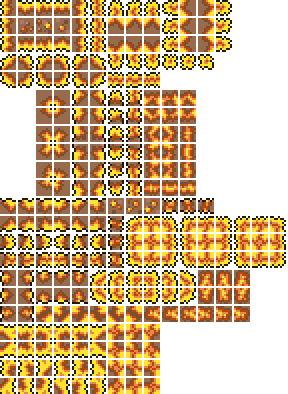
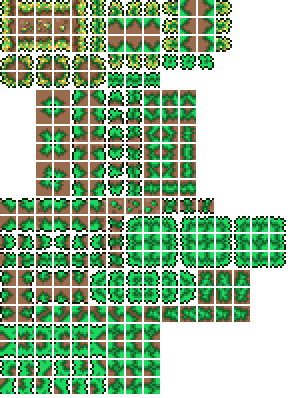
Fixed glowing, some changes to sprites

diff --git a/Helper/SJUtils.cs b/Helper/SJUtils.cs
@@ -1,4 +1,14 @@
-using Terraria;
+using Microsoft.Xna.Framework;
+using Microsoft.Xna.Framework.Graphics;
+using ScienceJam.Content.Tiles.SunGrass;
+using ScienceJam.Content.Walls;
+using System.Reflection;
+using System.Threading;
+using Terraria;
+using Terraria.DataStructures;
+using Terraria.GameContent.Drawing;
+using Terraria.ID;
+using Terraria.ModLoader;
 
 namespace ScienceJam.Helper
 {
@@ -9,5 +19,128 @@ namespace ScienceJam.Helper
             && (player.position.X + player.width) / 16f + Player.tileRangeX + player.inventory[player.selectedItem].tileBoost - 1f + player.blockRange >= x
             && player.position.Y / 16f - Player.tileRangeY - player.inventory[player.selectedItem].tileBoost - player.blockRange <= y
             && (player.position.Y + player.height) / 16f + Player.tileRangeY + player.inventory[player.selectedItem].tileBoost - 2f + player.blockRange >= y;
+
+        private static void TileGlowmaskList(TileDrawInfo drawData, int type, out Texture2D altGlowTexture, out Texture2D glowTexture, out Rectangle glowSourceRect, out Color glowColor)
+        {
+            glowTexture = null;
+            altGlowTexture = null;
+            glowSourceRect = Rectangle.Empty;
+            glowColor = Color.Transparent;
+            if (type == ModContent.TileType<SunGrassTile>())
+            {
+                altGlowTexture = SunGrassTile.glowTexture.Value;
+            }
+
+        }
+        public static void DrawGlowmask(int tileX, int tileY)
+        {
+            ThreadLocal<TileDrawInfo> _currentTileDrawInfo = (ThreadLocal<TileDrawInfo>)typeof(TileDrawing).GetField("_currentTileDrawInfo", BindingFlags.NonPublic | BindingFlags.Static | BindingFlags.Public | BindingFlags.Instance).GetValue(Main.instance.TilesRenderer);
+            TileDrawInfo drawData = _currentTileDrawInfo.Value;
+            Vector2 screenPosition = Main.Camera.UnscaledPosition;
+            Vector2 screenOffset = new((float)Main.offScreenRange, (float)Main.offScreenRange);
+            if (Main.drawToScreen)
+            {
+                screenOffset = Vector2.Zero;
+            }
+            drawData.tileCache = Main.tile[tileX, tileY];
+            drawData.typeCache = drawData.tileCache.TileType;
+            drawData.tileFrameX = drawData.tileCache.TileFrameX;
+            drawData.tileFrameY = drawData.tileCache.TileFrameY;
+            drawData.tileLight = Lighting.GetColor(tileX, tileY);
+            TileGlowmaskList(drawData, drawData.tileCache.TileType, out drawData.drawTexture, out drawData.glowTexture, out drawData.glowSourceRect, out drawData.glowColor);
+            bool flag = true;
+            flag &= TileDrawing.IsVisible(drawData.tileCache);
+
+            Rectangle rectangle = new(drawData.tileFrameX + drawData.addFrX, drawData.tileFrameY + drawData.addFrY, drawData.tileWidth, drawData.tileHeight - drawData.halfBrickHeight);
+            Vector2 vector = new Vector2((float)(tileX * 16 - (int)screenPosition.X) - ((float)drawData.tileWidth - 16f) / 2f, (float)(tileY * 16 - (int)screenPosition.Y + drawData.tileTop + drawData.halfBrickHeight)) + screenOffset;
+            if (!flag)
+            {
+                return;
+            }
+            drawData.colorTint = Color.White;
+            if (drawData.drawTexture != null)
+            {
+                Color color2 = Color.White;
+                if (drawData.tileCache.Slope == 0 && !drawData.tileCache.IsHalfBlock)
+                {
+                    Main.spriteBatch.Draw(drawData.drawTexture, vector, (Rectangle?)new Rectangle(drawData.tileFrameX + drawData.addFrX, drawData.tileFrameY + drawData.addFrY, drawData.tileWidth, drawData.tileHeight), color2, 0f, Vector2.Zero, 1f, (SpriteEffects)0, 0f);
+                }
+                else if (drawData.tileCache.IsHalfBlock)
+                {
+                    Main.spriteBatch.Draw(drawData.drawTexture, vector, (Rectangle?)rectangle, color2, 0f, Vector2.Zero, 1f, (SpriteEffects)0, 0f);
+                }
+                else if (TileID.Sets.Platforms[drawData.tileCache.TileType])
+                {
+                    Main.spriteBatch.Draw(drawData.drawTexture, vector, (Rectangle?)rectangle, color2, 0f, Vector2.Zero, 1f, drawData.tileSpriteEffect, 0f);
+                    if (drawData.tileCache.Slope == (SlopeType)1 && Main.tile[tileX + 1, tileY + 1].HasTile && Main.tileSolid[Main.tile[tileX + 1, tileY + 1].TileType] && Main.tile[tileX + 1, tileY + 1].Slope != (SlopeType)2 && !Main.tile[tileX + 1, tileY + 1].IsHalfBlock && (!Main.tile[tileX, tileY + 1].HasTile || (Main.tile[tileX, tileY + 1].BlockType != 0 && Main.tile[tileX, tileY + 1].BlockType != (BlockType)5) || (!TileID.Sets.BlocksStairs[Main.tile[tileX, tileY + 1].TileType] && !TileID.Sets.BlocksStairsAbove[Main.tile[tileX, tileY + 1].TileType])))
+                    {
+                        Rectangle value = new(198, (int)drawData.tileFrameY, 16, 16);
+                        if (TileID.Sets.Platforms[Main.tile[tileX + 1, tileY + 1].TileType] && Main.tile[tileX + 1, tileY + 1].Slope == 0)
+                        {
+                            value.X = 324;
+                        }
+                        Main.spriteBatch.Draw(drawData.drawTexture, vector + new Vector2(0f, 16f), (Rectangle?)value, color2, 0f, Vector2.Zero, 1f, drawData.tileSpriteEffect, 0f);
+                    }
+                    else if (drawData.tileCache.Slope == (SlopeType)2 && Main.tile[tileX - 1, tileY + 1].HasTile && Main.tileSolid[Main.tile[tileX - 1, tileY + 1].TileType] && Main.tile[tileX - 1, tileY + 1].Slope != (SlopeType)1 && !Main.tile[tileX - 1, tileY + 1].IsHalfBlock && (!Main.tile[tileX, tileY + 1].HasTile || (Main.tile[tileX, tileY + 1].BlockType != 0 && Main.tile[tileX, tileY + 1].BlockType != (BlockType)4) || (!TileID.Sets.BlocksStairs[Main.tile[tileX, tileY + 1].TileType] && !TileID.Sets.BlocksStairsAbove[Main.tile[tileX, tileY + 1].TileType])))
+                    {
+                        Rectangle value2 = new(162, (int)drawData.tileFrameY, 16, 16);
+                        if (TileID.Sets.Platforms[Main.tile[tileX - 1, tileY + 1].TileType] && Main.tile[tileX - 1, tileY + 1].Slope == 0)
+                        {
+                            value2.X = 306;
+                        }
+                        Main.spriteBatch.Draw(drawData.drawTexture, vector + new Vector2(0f, 16f), (Rectangle?)value2, color2, 0f, Vector2.Zero, 1f, drawData.tileSpriteEffect, 0f);
+                    }
+                }
+                else if (TileID.Sets.HasSlopeFrames[drawData.tileCache.TileType])
+                {
+                    Main.spriteBatch.Draw(drawData.drawTexture, vector, (Rectangle?)new Rectangle(drawData.tileFrameX + drawData.addFrX, drawData.tileFrameY + drawData.addFrY, 16, 16), color2, 0f, Vector2.Zero, 1f, drawData.tileSpriteEffect, 0f);
+                }
+                else
+                {
+                    int num4 = (int)drawData.tileCache.Slope;
+                    int num5 = 2;
+                    for (int i = 0; i < 8; i++)
+                    {
+                        int num6 = i * -2;
+                        int num7 = 16 - i * 2;
+                        int num8 = 16 - num7;
+                        int num9;
+                        switch (num4)
+                        {
+                            case 1:
+                                num6 = 0;
+                                num9 = i * 2;
+                                num7 = 14 - i * 2;
+                                num8 = 0;
+                                break;
+                            case 2:
+                                num6 = 0;
+                                num9 = 16 - i * 2 - 2;
+                                num7 = 14 - i * 2;
+                                num8 = 0;
+                                break;
+                            case 3:
+                                num9 = i * 2;
+                                break;
+                            default:
+                                num9 = 16 - i * 2 - 2;
+                                break;
+                        }
+                        Main.spriteBatch.Draw(drawData.drawTexture, vector + new Vector2((float)num9, (float)(i * num5 + num6)), (Rectangle?)new Rectangle(drawData.tileFrameX + drawData.addFrX + num9, drawData.tileFrameY + drawData.addFrY + num8, num5, num7), color2, 0f, Vector2.Zero, 1f, drawData.tileSpriteEffect, 0f);
+                    }
+                    int num10 = ((num4 <= 2) ? 14 : 0);
+                    Main.spriteBatch.Draw(drawData.drawTexture, vector + new Vector2(0f, (float)num10), (Rectangle?)new Rectangle(drawData.tileFrameX + drawData.addFrX, drawData.tileFrameY + drawData.addFrY + num10, 16, 2), color2, 0f, Vector2.Zero, 1f, drawData.tileSpriteEffect, 0f);
+                }
+            }
+            if (drawData.glowTexture != null)
+            {
+                Vector2 position = new Vector2((float)(tileX * 16 - (int)screenPosition.X) - ((float)drawData.tileWidth - 16f) / 2f, (float)(tileY * 16 - (int)screenPosition.Y + drawData.tileTop)) + screenOffset;
+                if (TileID.Sets.Platforms[drawData.typeCache])
+                {
+                    position = vector;
+                }
+                Main.spriteBatch.Draw(drawData.glowTexture, position, (Rectangle?)drawData.glowSourceRect, drawData.glowColor, 0f, Vector2.Zero, 1f, drawData.tileSpriteEffect, 0f);
+            }
+        }
     }
 }

diff --git a/Content/Tiles/SunGrass/SunGrassTile.cs b/Content/Tiles/SunGrass/SunGrassTile.cs
@@ -1,3 +1,4 @@
+using Microsoft.Xna.Framework;
 using Microsoft.Xna.Framework.Graphics;
 using ReLogic.Content;
 using ScienceJam.Content.Biomes;
@@ -15,6 +16,7 @@ namespace ScienceJam.Content.Tiles.SunGrass
 {
     public class SunGrassTile : ModTile
     {
+        public static Asset<Texture2D> glowTexture;
         public override void SetStaticDefaults()
         {
             Main.tileLighted[Type] = true;
@@ -40,7 +42,6 @@ namespace ScienceJam.Content.Tiles.SunGrass
             TileID.Sets.DoesntPlaceWithTileReplacement[Type] = true;
             TileID.Sets.ChecksForMerge[Type] = true;
             TileObjectData.newTile.CopyFrom(TileObjectData.Style1x1);
-
             // This is the important line!
             TileObjectData.newTile.HookPostPlaceMyPlayer = ModContent.GetInstance<SunGrassTileEntity>().Generic_HookPostPlaceMyPlayer;
 
@@ -48,6 +49,8 @@ namespace ScienceJam.Content.Tiles.SunGrass
             DustType = ModContent.DustType<SunGrassSparkle>();
 
             AddMapEntry(new Color(200, 200, 200));
+
+            glowTexture = ModContent.Request<Texture2D>(Texture + "_Glow");
         }
 
         public override void NumDust(int i, int j, bool fail, ref int num)
@@ -87,30 +90,6 @@ namespace ScienceJam.Content.Tiles.SunGrass
                 return;
             }
 
-            bool sunflowerNearby = false;
-
-            for (int k = -3; k <= 3 && !sunflowerNearby; k++)
-            {
-                for (int l = -3; l <= 3 && !sunflowerNearby; l++)
-                {
-                    if (k * k + l * l <= 9 && WorldGen.InWorld(i + k, j + l, 10))
-                    {
-                        Tile tile = Framing.GetTileSafely(i + k, j + l);
-                        if (tile.HasTile && tile.TileType == TileID.Sunflower)
-                        {
-                            sunflowerNearby = true;
-                        }
-                    }
-                }
-            }
-
-            if (!sunflowerNearby)
-            {
-                Main.tile[i, j].type = (ushort)TileID.Grass;
-                WorldGen.SquareTileFrame(i, j);
-                return;
-            }
-
             Tile upperTile = Framing.GetTileSafely(i, j - 1);
 
             if (!upperTile.HasTile && Main.tile[i, j].HasTile && Utils.NextBool(Main.rand, 4) && upperTile.LiquidAmount == 0)
@@ -144,11 +123,15 @@ namespace ScienceJam.Content.Tiles.SunGrass
                 return true;
             }
         }
+        public override void PostDraw(int i, int j, SpriteBatch spriteBatch)
+        {
+            SJUtils.DrawGlowmask(i, j);
+        }
     }
     public class SunGrassTileEntity : ModTileEntity
     {
         int counter = 0;
-        bool needCheckForSunflower => counter >= 50;
+        bool needCheckForSunflower => counter == 0;
         public override bool IsTileValidForEntity(int x, int y)
         {
             Tile tile = Main.tile[x, y];
@@ -163,22 +146,23 @@ namespace ScienceJam.Content.Tiles.SunGrass
             }
 
             counter++;
-            counter = Math.Clamp(counter, 0, 50);
-            if (!needCheckForSunflower && !Main.rand.NextBool(100))
+            counter %= 25;
+            if (!needCheckForSunflower || !Main.rand.NextBool(10))
             {
                 return;
             }
             counter = 0;
             int i = Position.X;
             int j = Position.Y;
+            const int radius = 25;
 
             bool sunflowerNearby = false;
 
-            for (int k = -3; k <= 3 && !sunflowerNearby; k++)
+            for (int k = -radius; k <= radius && !sunflowerNearby; k++)
             {
-                for (int l = -3; l <= 3 && !sunflowerNearby; l++)
+                for (int l = -radius; l <= radius && !sunflowerNearby; l++)
                 {
-                    if (k * k + l * l <= 9 && WorldGen.InWorld(i + k, j + l, 10))
+                    if (k * k + l * l <= radius * radius && WorldGen.InWorld(i + k, j + l, 10))
                     {
                         Tile tile = Framing.GetTileSafely(i + k, j + l);
                         if (tile.HasTile && tile.TileType == TileID.Sunflower)

diff --git a/Common/GlobalTile/SunflowerChanges.cs b/Common/GlobalTile/SunflowerChanges.cs
@@ -6,16 +6,18 @@ using Terraria.ObjectData;
 
 namespace SienceJam.Common.GlobalTiles
 {
-	public class SunflowerChanges : GlobalTile
-	{
-		public override void SetStaticDefaults() {
-			TileObjectData tileObjectData = TileObjectData.GetTileData(TileID.Sunflower, 0);
-			tileObjectData.AnchorValidTiles = tileObjectData.AnchorValidTiles.Append(ModContent.TileType<SunGrassTile>()).ToArray();
-		}
+    public class SunflowerChanges : GlobalTile
+    {
+        public override void SetStaticDefaults()
+        {
+            TileObjectData sunflowerObjectData = TileObjectData.GetTileData(TileID.Sunflower, 0);
+            sunflowerObjectData.AnchorValidTiles = sunflowerObjectData.AnchorValidTiles.Append(ModContent.TileType<SunGrassTile>()).ToArray();
+        }
 
-		public override void Unload() {
-			TileObjectData tileObjectData = TileObjectData.GetTileData(TileID.Sunflower, 0);
-			tileObjectData.AnchorValidTiles = tileObjectData.AnchorValidTiles.Except([ModContent.TileType<SunGrassTile>()]).ToArray();
-		}
-	}
+        public override void Unload()
+        {
+            TileObjectData sunflowerObjectData = TileObjectData.GetTileData(TileID.Sunflower, 0);
+            sunflowerObjectData.AnchorValidTiles = sunflowerObjectData.AnchorValidTiles.Except([ModContent.TileType<SunGrassTile>()]).ToArray();
+        }
+    }
 }

diff --git a/Common/Systems/CustomSkyColorSystem.cs b/Common/Systems/CustomSkyColorSystem.cs
@@ -29,7 +29,7 @@ namespace ScienceJam.Common.Systems
             orig(info, out sunColor, out moonColor);
             Vector4 colorOfMidday = Main.ColorOfTheSkies.ToVector4();
 
-            float rate = 0.5f;
+            float rate = 0.4f;
 
             Main.time = realTime;
             Main.dayTime = realDayTime;
